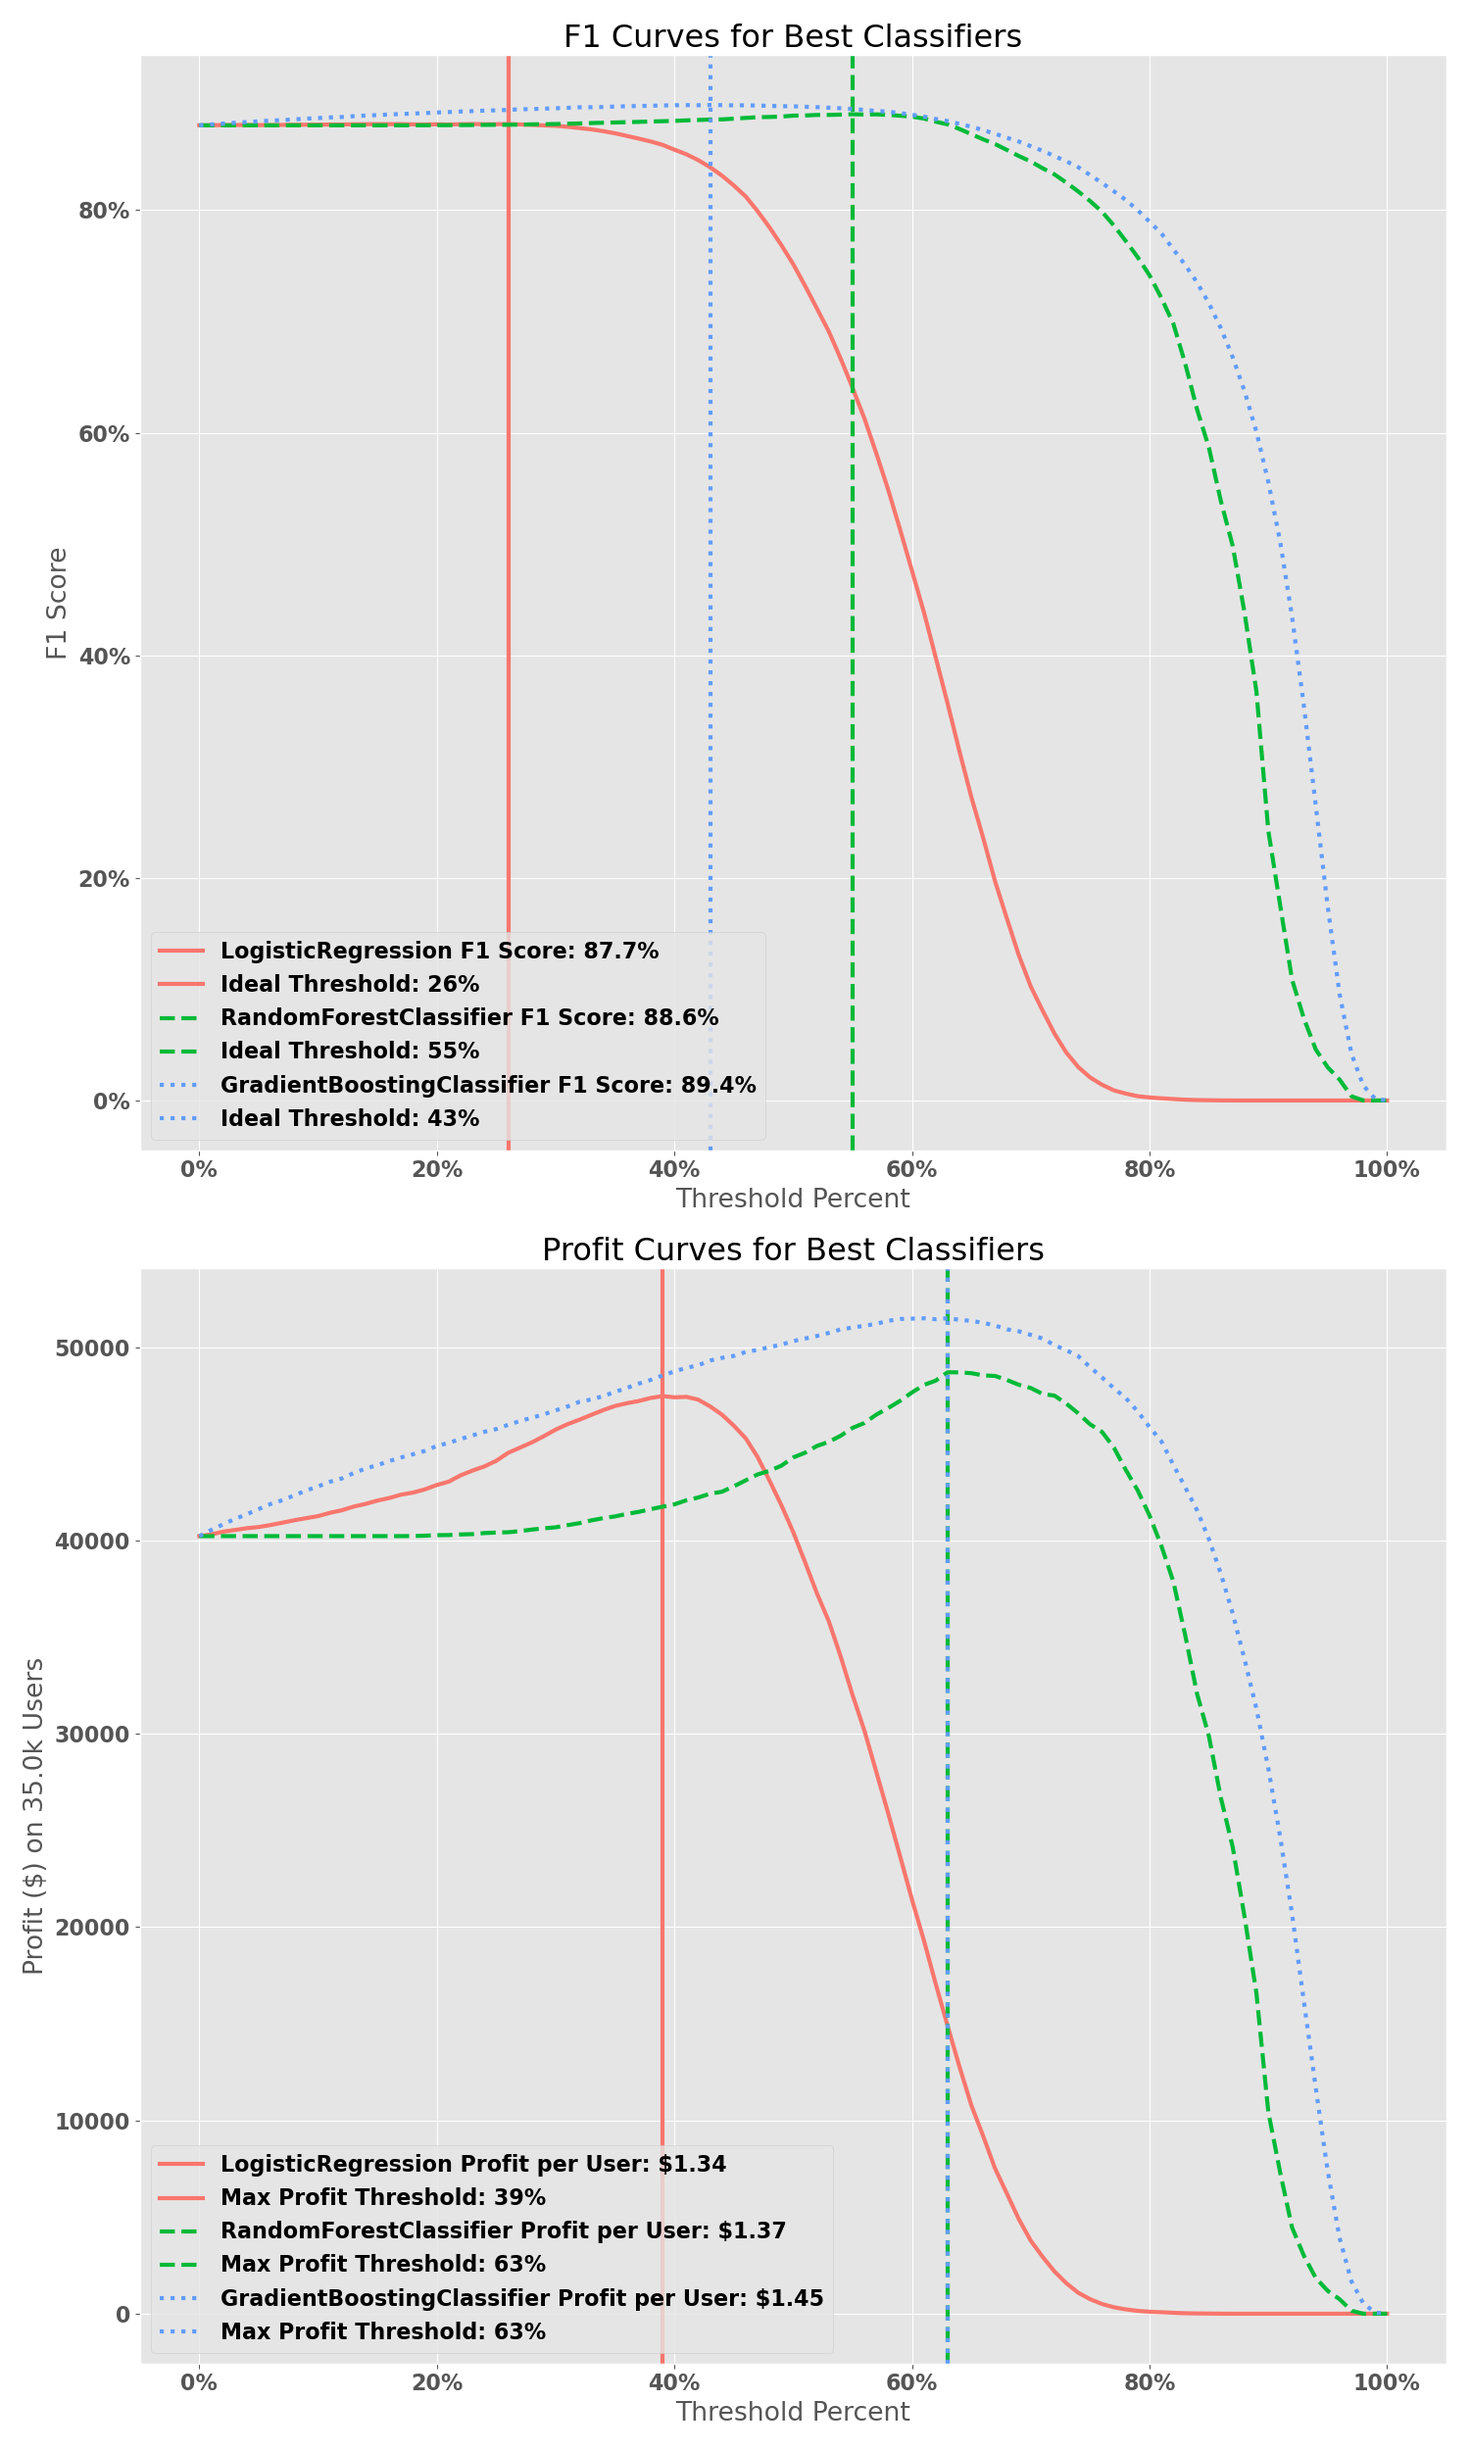
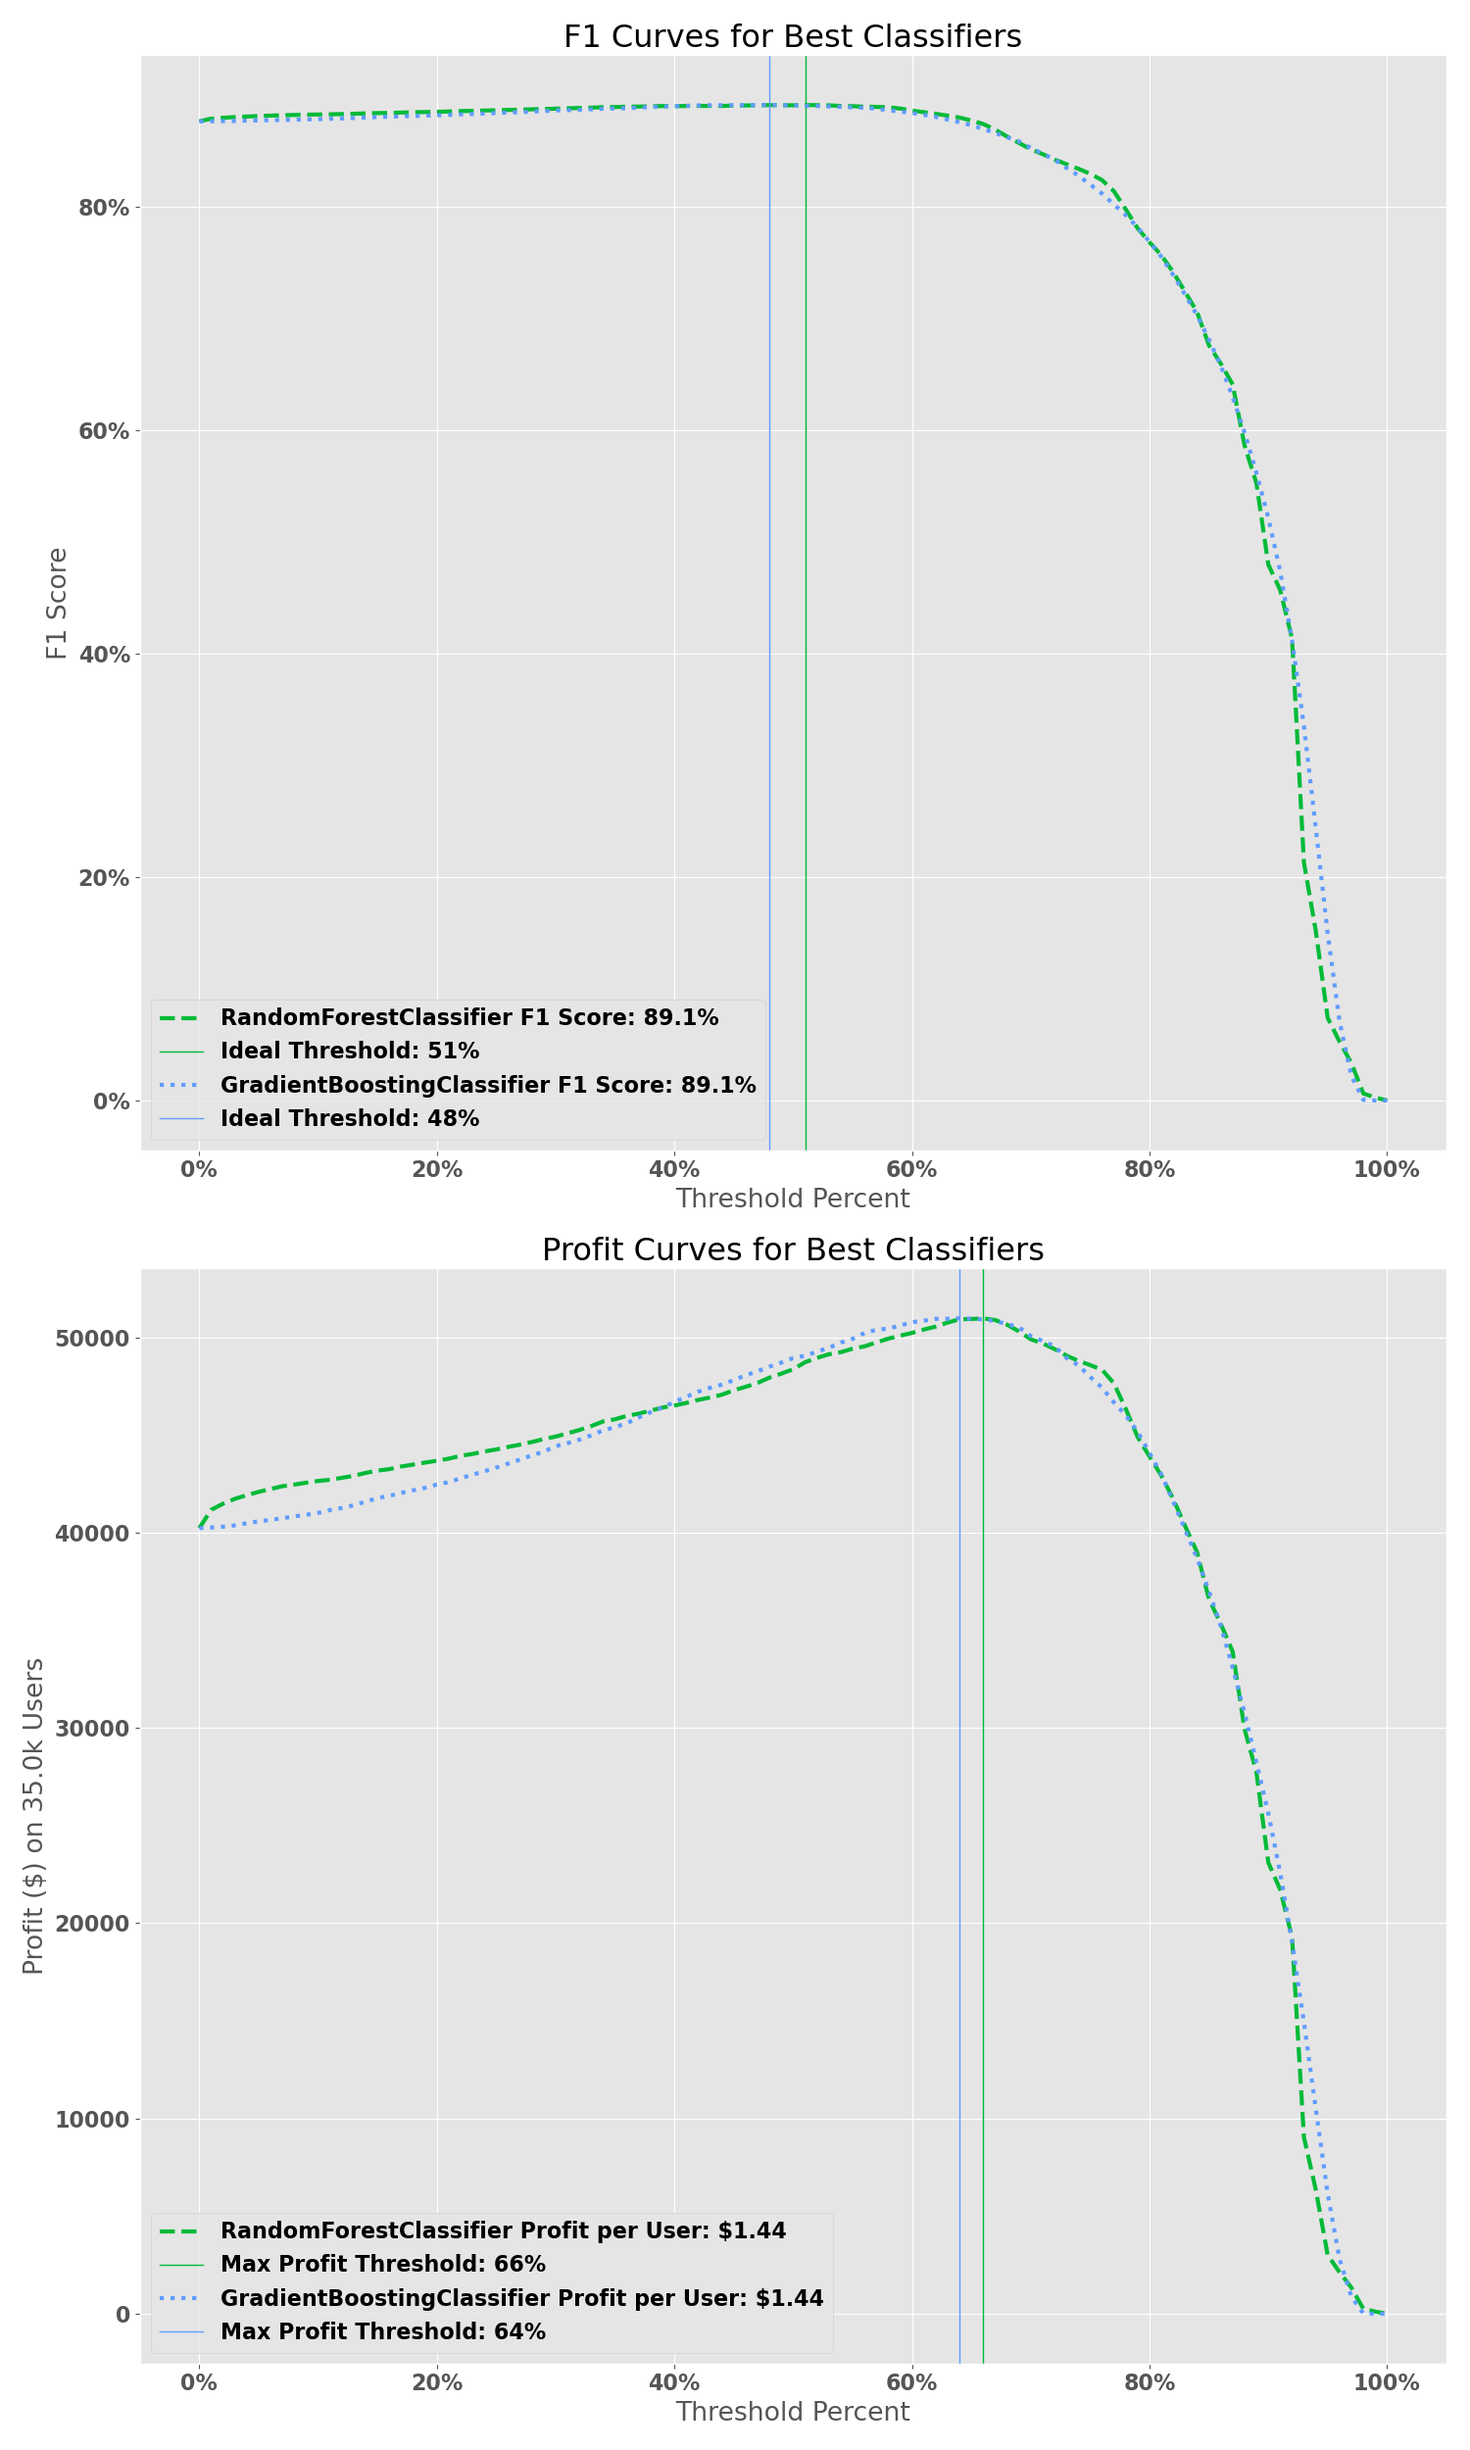
Final update before code freeze

diff --git a/src/train_test.py b/src/train_test.py
@@ -100,7 +100,7 @@ class Churn_Model(object):
         
         print(f"Feature Importances for {self.classifier_name}")
         print("| Feature                        | Importance % |  ")
-        print("|--------------------------------|--------------| ")
+        print("|-------------------------------:|:------------:| ")
         for feature in sorted(feature_dict, key=feature_dict.__getitem__, reverse=True):
             print(f"| {feature.replace('_', ' ').title()} | {feature_dict[feature]:.1%} |")
 
@@ -131,7 +131,7 @@ class Churn_Model(object):
     def plot_model_roc(self, ax, plot_kwargs={}):
         """ Plots the ROC Curve for a classifier given the test data and axis
         Args:
-            classifier (Sklearn Classifier): The best classifier to test against other classifiers
+            classifier (Sklearn Classifier): The best classifier to compare against other classifiers
             ax (matplotlib axis): An axis to plot the ROC curve on.
             plot_kwargs (dict): Keyword arguments to pass to the plot for formatting
 
@@ -172,8 +172,9 @@ class Churn_Model(object):
         Args:
             ax (matplotlib axis): The axis to plot the best classifier's F1 score curve.
             plot_kwargs (dict): Keyword arguments to visually separate the best classifiers.
-            tp_cost (float): The cost of correctly predicted a positive class
-            fp_cost (float): The cost a incorrectly predicting a positive class
+            vl_kwargs (dict): Keyword arguments to visually separate the vertical line from the profit curve.
+            tp_cost (float): The cost of correctly predicted a positive class. Default is $1.00.
+            fp_cost (float): The cost a incorrectly predicting a positive class. Default is -$1.00.
 
         Returns:
             None
@@ -187,11 +188,12 @@ class Churn_Model(object):
         ax.plot(x_axis, y_axis, label=f"{self.classifier_name} Profit per User: ${max_profit:.2f}", **plot_kwargs)
         ax.axvline(x=max_profit_line, label=f"Max Profit Threshold: {max_profit_line:.0%}", **vl_kwargs)
 
-    def plot_f1_curve(self, ax, plot_kwargs={}):
+    def plot_f1_curve(self, ax, plot_kwargs={}, vl_kwargs={}):
         """ Plots the F1 Score Curve for a classifier given an ax and plot_kwargs
         Args:
             ax (matplotlib axis): The axis to plot the best classifier's F1 score curve.
             plot_kwargs (dict): Keyword arguments to visually separate the best classifiers.
+            vl_kwargs (dict): Keyword arguments to visually separate the vertical line from the profit curve.
             
         Returns:
             None
@@ -212,7 +214,7 @@ class Churn_Model(object):
         
         ax.plot(threshold_list, f1_list, label=f"{self.classifier_name} F1 Score: {max_f1_score:.1%}", **plot_kwargs)
         ax.axvline(x=max_threshold
-                  ,label=f'Ideal Threshold: {max_threshold:.0%}', **plot_kwargs)
+                  ,label=f'Ideal Threshold: {max_threshold:.0%}', **vl_kwargs)
 
 
 def load_X_y(bucket_name, filename, is_feature_selection=False, feature_list=[]):
@@ -255,7 +257,7 @@ def load_X_y(bucket_name, filename, is_feature_selection=False, feature_list=[])
 if __name__ == '__main__':
     
     bucket_name = 'food-delivery-churn'
-    filename = 'boolean_churn'
+    filename = 'original_churn'
     is_feature_selection = False
     feature_list = []
         
@@ -283,9 +285,6 @@ if __name__ == '__main__':
     rf_model.print_feature_importances()
     rf_model.plot_cf_matrix()
 
-    # split_data[0]['lr_predictions'] = lr_model.y_train_probs
-    # split_data[1]['lr_predictions'] = lr_model.y_test_probs
-    
     gb_model = Churn_Model(GradientBoostingClassifier(), split_data)
     gradient_boosting_grid = {'learning_rate': [0.01, 0.05, 0.1, 0.2, 0.25]
                             ,'max_depth': [2, 4, 8]
@@ -299,9 +298,10 @@ if __name__ == '__main__':
 
     lr_plot_kwargs = {'linestyle':'-', 'linewidth': 3, 'color': '#F8766D'}
     rf_plot_kwargs = {'linestyle':'--', 'linewidth': 3, 'color': '#00BA38'}
+    rf_vl_kwargs = {'linestyle':'-', 'linewidth': 1, 'color': '#00BA38'}
     gb_plot_kwargs = {'linestyle':':', 'linewidth': 3, 'color': '#619CFF'}
-    vl_plot_kwargs = {'linestyle':'-', 'linewidth': 3, 'color': '#619CFF'}
-
+    gb_vl_kwargs = {'linestyle':'-', 'linewidth': 1, 'color': '#619CFF'}
+    
     classifiers = [lr_model, rf_model, gb_model]
     classifier_plot_kwargs = [lr_plot_kwargs, rf_plot_kwargs, gb_plot_kwargs]
 
@@ -318,43 +318,31 @@ if __name__ == '__main__':
     ax.set_title(f"ROC Curve for Best Classifiers")                                                                    
     
     plt.tight_layout()
-    # plt.savefig(f"images/boolean_roc_curves.png", dpi=400)
+    plt.savefig(f"images/original_roc_curves.png", dpi=400)
 
-    # fig, axs = plt.subplots(nrows=2, figsize=(15,25))
+    fig, axs = plt.subplots(nrows=2, figsize=(15,25))
     
-    # final_classifiers = [rf_model, gb_model]
-    # final_classifier_plot_kwargs = [rf_plot_kwargs, gb_plot_kwargs]
+    final_classifiers = [rf_model, gb_model]
+    final_classifier_plot_kwargs = [rf_plot_kwargs, gb_plot_kwargs]
+    final_classifier_vl_kwargs = [rf_vl_kwargs, gb_vl_kwargs]
 
-    # for classifier, kwargs in zip(final_classifiers, final_classifier_plot_kwargs):
+    for classifier, plot_kwargs, vl_kwargs in zip(final_classifiers, final_classifier_plot_kwargs, final_classifier_vl_kwargs):
         
-    #     classifier.plot_f1_curve(axs[0], kwargs)             
-    #     classifier.plot_profit_curve(axs[1], kwargs, tp_cost=2.99, fp_cost=-5.43)
+        classifier.plot_f1_curve(axs[0], plot_kwargs, vl_kwargs)             
+        classifier.plot_profit_curve(axs[1], plot_kwargs, vl_kwargs, tp_cost=2.99, fp_cost=-5.43)
     
-    # axs[0].legend(loc='lower left')
-    # axs[0].set_title(f"F1 Curves for Best Classifiers")                                                                    
-    # axs[0].set_xlabel(f"Threshold Percent")
-    # axs[0].set_ylabel(f"F1 Score")
-    # axs[0].xaxis.set_major_formatter(PercentFormatter(xmax=1.0))
-    # axs[0].yaxis.set_major_formatter(PercentFormatter(xmax=1.0))
+    axs[0].legend(loc='lower left')
+    axs[0].set_title(f"F1 Curves for Best Classifiers")                                                                    
+    axs[0].set_xlabel(f"Threshold Percent")
+    axs[0].set_ylabel(f"F1 Score")
+    axs[0].xaxis.set_major_formatter(PercentFormatter(xmax=1.0))
+    axs[0].yaxis.set_major_formatter(PercentFormatter(xmax=1.0))
 
-    # axs[1].legend(loc='lower left')
-    # axs[1].set_title("Profit Curves for Best Classifiers")                                                                    
-    # axs[1].set_xlabel(f"Threshold Percent")
-    # axs[1].set_ylabel(f"Profit ($) on {round(len(split_data[3])/1000,0)}k Users")
-    # axs[1].xaxis.set_major_formatter(PercentFormatter(xmax=1.0))
-    
-    # plt.tight_layout()
-    # plt.savefig(f"images/boolean_profit_and_f1_curves.png")
-
-    fig, ax = plt.subplots(figsize=(11,9))
-    
-    gb_model.plot_profit_curve(ax, gb_plot_kwargs, vl_plot_kwargs, tp_cost=2.99, fp_cost=-5.43)
-    
-    ax.legend(loc='lower left')
-    ax.set_title("Profit Curves for Best Classifiers")                                                                    
-    ax.set_xlabel(f"Threshold Percent")
-    ax.set_ylabel(f"Profit ($) on {round(len(split_data[3])/1000,0)}k Users")
-    ax.xaxis.set_major_formatter(PercentFormatter(xmax=1.0))
+    axs[1].legend(loc='lower left')
+    axs[1].set_title("Profit Curves for Best Classifiers")                                                                    
+    axs[1].set_xlabel(f"Threshold Percent")
+    axs[1].set_ylabel(f"Profit ($) on {round(len(split_data[3])/1000,0)}k Users")
+    axs[1].xaxis.set_major_formatter(PercentFormatter(xmax=1.0))
     
     plt.tight_layout()
-    # plt.savefig(f"images/boolean_profit_curve.png", dpi=400)
+    plt.savefig(f"images/original_profit_and_f1_curves.png")

diff --git a/src/analyze_data.py b/src/analyze_data.py
@@ -82,7 +82,7 @@ class EDA_Plot(object):
 
         plt.tight_layout(rect=(0,0,1,0.98))
         plt.suptitle(f"KDE Plots for Continuous Predictors", y=0.99, fontsize=35)
-        plt.savefig(f"images/boolean_kde_plots.png")
+        plt.savefig(f"images/original_kde_plots.png")
 
     def bar_categorical_plot(self, cat_df, cat_col, ax):
         """ Plots a 100% Fill Stacked Barchart of Churned vs Active users using the values passed.
@@ -136,12 +136,12 @@ class EDA_Plot(object):
 
         plt.tight_layout(rect=(0,0,1,0.98))
         plt.suptitle(f"100% Fill Barchart for Categorical Predictors", y=0.99, fontsize=35)
-        plt.savefig(f"images/boolean_barchart_plots.png")
+        plt.savefig(f"images/original_barchart_plots.png")
 
 if __name__ == '__main__':
     
     bucket_name = 'food-delivery-churn'
-    train_filename = 'boolean_churn_train.csv'
+    train_filename = 'original_churn_train.csv'
     
     churn_eda = EDA_Plot(bucket_name, train_filename)
     

diff --git a/src/split_store_data.py b/src/split_store_data.py
@@ -16,6 +16,7 @@ def clean_store_data(churn_data, clean_dict, bucket_name, filename):
                             5. fake_cities: A list of fake city names to replace city_column with. Should be equal
                                             or greater to the number of unique cities in city_column.
         bucket_name (str): The name of the AWS S3 Bucket to store the training and test data in.
+        filename (str): The filename to use when saving the csv files to the AWS S3 Bucket
     
     Returns: None
              Stores the cleaned query results into the AWS bucket

diff --git a/src/query_pull.py b/src/query_pull.py
@@ -6,7 +6,7 @@ def poll_job(s, redash_url, job):
     """ Example code adopted from https://github.com/getredash/redash-toolbelt/blob/master/redash_toolbelt/examples/refresh_query.py
     Args:
         s (Request Session): A session from HTTP requests library
-        redash_url: Url of the Redash website to use
+        redash_url (str): Url of the Redash website to use
         job: json job returned from the session response
 
     Returns:

diff --git a/README.md b/README.md
@@ -165,7 +165,7 @@ My first step in determining the best classifier to use was to iterate through v
     </tbody>
 </table>
 
-I decided to use the Receiver Operating Characteristic (ROC) Area Under the Curve (AUC) score to compare my models because it balances the trade off between True Positive Rate (TPR) and False Positive Rate (FPR). The goal of ROC AUC score is to maximize your TPR while trying to minimize your FPR. Evaluating this across all thresholds gives you an ROC Curve which I can plot to compare how well one model is doing against the others. My best model used the Gradient Boosting classifier and achieved an AUC score of 0.78 on unseen data.
+I decided to use the Receiver Operating Characteristic (ROC) Area Under the Curve (AUC) score to compare my models because it balances the trade off between True Positive Rate (TPR) and False Positive Rate (FPR). The goal of ROC AUC score is to maximize your TPR while trying to minimize your FPR. Evaluating this across all thresholds gives you an ROC Curve which I can plot to compare how well one model is doing against the others. My best model used the Gradient Boosting classifier and achieved an AUC score of 0.77 on unseen data.
 
 ![ROC Curve](images/original_roc_curves.png)
 
@@ -244,7 +244,7 @@ learning_rate=0.25
 
 Now that I had my best model for predicting the probability that a user will churn, I wanted to see what threshold for probability is optimal to determine our positive and negative class. In order to do this, I used an F1 score which balances the importance of a False Positive and a False Negative as well as a Profit Curve which takes into account the cost of predicting True Positives and False Positives.
 
-![F1 Score and Profit Curve](images/boolean_profit_and_f1_curves.png)
+![F1 Score and Profit Curve](images/original_profit_and_f1_curves.png)
 
 For my true positive cost, I calculated the Lifetime Value (LTV) of a user in Company X and subtracted the amount of LTV they accrue in the first 30 days. This came out to $2.99. 
 
